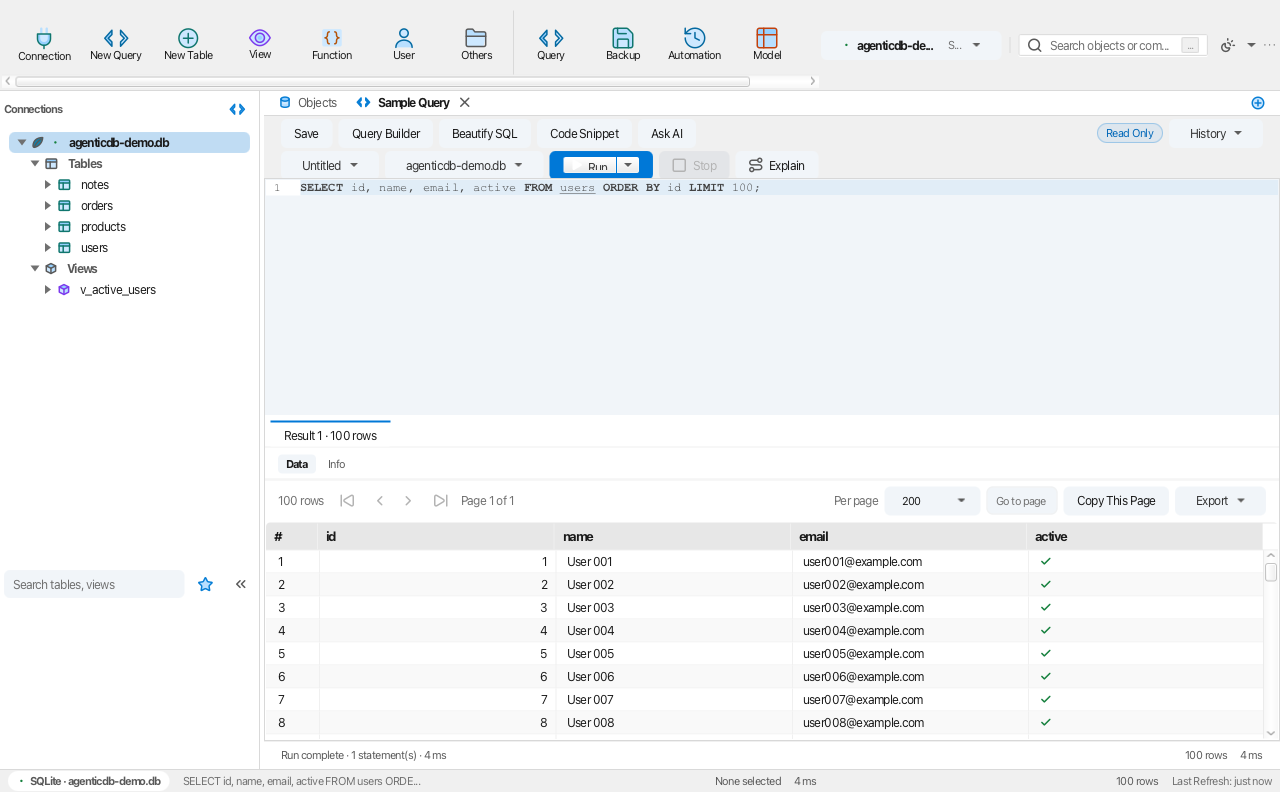
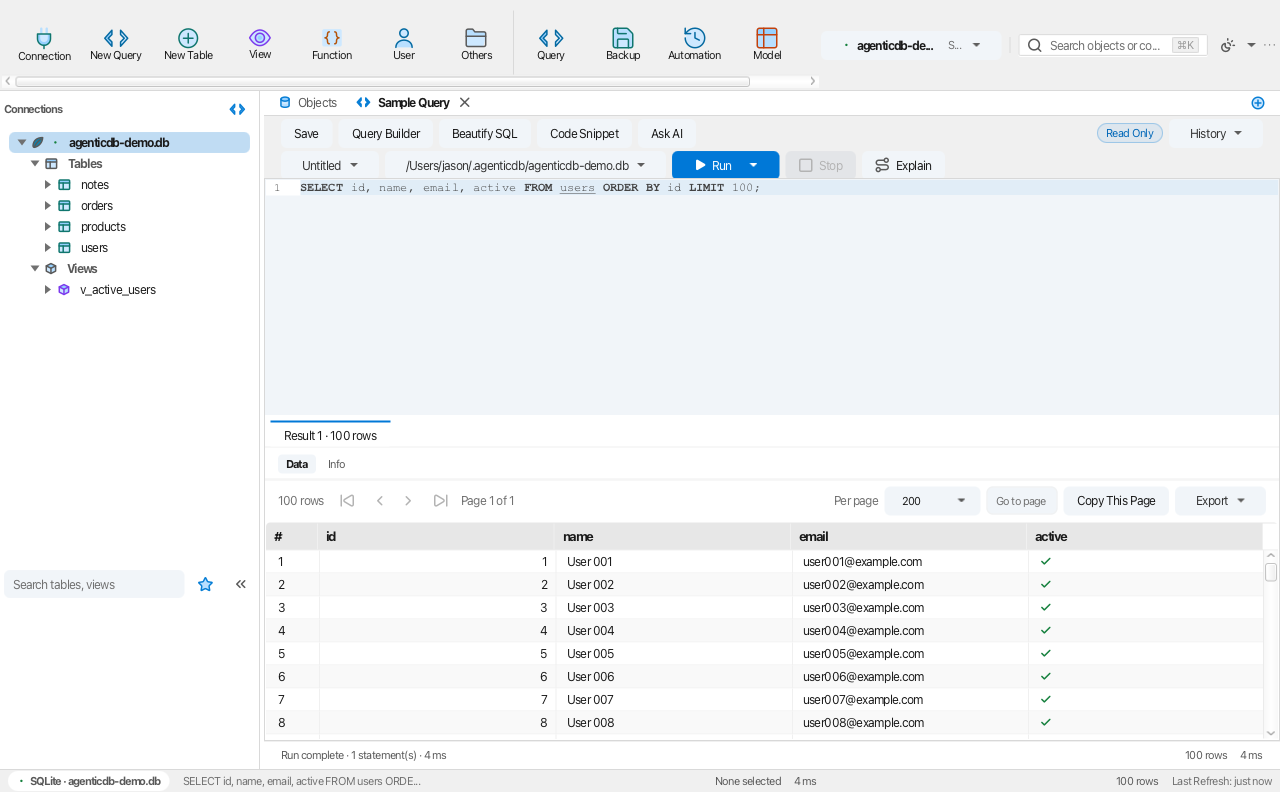
docs: R44 文档与验收帧 —— 基线回量 1296/148、逐像素对照的判据又用上一次
STATUS §1 回量 **1296 条 / 148 类 / 0 失败 / 34 环境跳过**（`BUILD SUCCESS` 14:31）。
账：上一版 1262 + 新门禁 15 + 真库解封 19。
⚠ 中途写过 1295/14 —— 那是 D-17 门禁落地**之前**量的，本轮重量后纠正，
并把「数字必须是量出来的、且要在最后一版门禁之后量」这条再钉一次。

帧：`p3-query`（Run 整颗蓝底白字、`⌘K` 胶囊完整）与 `p0-shell` 重拍。
`p0-shell` 与 HEAD 逐像素对照：差异 316 像素、包围盒 42×16 落在搜索框那一格
（胶囊从「…」变「⌘K」，提示文字按新的收缩权提前省略），别处一格未动 ——
R43-c 立的那条「变化必须只落在本轮改动的那块盒子里」这次真的用它抓到东西：
没有第二条规则能证明这不是回归。

§2 查询页一行改写为「库选择器真的列库并换绑 + P-1 不自动重跑」，
§2 结构编辑一行记下真库首跑抓出的两条缺陷。

Changed region(s): [[0.3125, 0.1818, 0.6562, 0.2424], [0.6875, 0.1818, 0.7188, 0.2121]]

diff --git a/docs/STATUS.md b/docs/STATUS.md
@@ -10,17 +10,18 @@
 | 项 | 值 |
 |---|---|
 | 命令 | `./scripts/build.sh`（= `./mvnw -B clean verify` + `java tools/TestCount.java`） |
-| 最近一次全量回量 | 2026-11-01 · macOS 15.7 x64 · JDK 25.0.4（IntelliJ JBR） |
-| 结果 | **1262 条 / 147 类 / 0 失败**（另有 53 条环境门控跳过）—— R43-c 视觉收尾后回量（`./scripts/build.sh` 全绿；较上一版 **+2 条 / 类数不变**：两条新门禁 —— `ToolbarDiscoverabilityTest` 量「下拉键的箭头不许压住图标」的**几何**，`NewTableDialogTest` 钉「留白不许落在网格与属性面板之间」的**结构**。53 条跳过分布不变，视图 DDL **仍未在真 MySQL / PostgreSQL 上联调**，见 §2 视图生命周期行与 D-5 |
+| 最近一次全量回量 | 2026-11-02 · macOS 15.7 x64 · JDK 25.0.4（IntelliJ JBR）· 本机 Docker 可用 |
+| 结果 | **1296 条 / 148 类 / 0 失败**（另有 34 条环境门控跳过）—— R44-G1 后回量（`./scripts/build.sh` 全绿；较上一版 **+34 条 / +1 类 / 跳过 −19**，账对得平：新门禁 15 条 = `QueryCatalogSelectorTest` 6（查询页库选择器，新增一类）+ `AppBarTest` D-12 几何 1 + `QueryPageTest` D-17 主色穿透 1 + `DialectTest` 动作码与注释钩子 7，另有 19 条真库类因本机 Docker 到位自动开跑。⚠ 上一版写 1295/14 是在 D-17 门禁落地**之前**量的，重量后按 1296/15 纠正。真库首跑当场抓出两条产品缺陷（表注释钩子被未闭合块注释吃掉、PG 外键动作码映射错），已修 —— 见 §2「结构编辑」与 D-5 |
 
 **口径警告（改数字前必读）**：4 个测试类用 `@Nested`，surefire 的 XML 会把外层类写成 `tests="0"`
 （真实用例在内层类条目里）。按 `tests=` 属性统计会少算一百多条 —— 所以计数一律走
 `tools/TestCount.java`（按 `<testcase>` 元素数），并且它同时断言总数下限。
 `I18nAuditTest` 的汉字棘轮同理：**别用 grep 数**，口径不同的两个数放在一起只会让人以为棘轮又涨了。
 
-另有 **53 条环境门控跳过**：需要 Docker / MySQL·PostgreSQL 真库环境变量，本机没配就跳过，
-不算失败（「0 失败」是硬门禁，「0 跳过」不是）。本轮实测的分布：
-`adb-jdbc` 30 · `adb-introspect` 18 · `adb-session` 5。
+另有 **34 条环境门控跳过**：需要 Docker / MySQL·PostgreSQL 真库环境变量，本机没配就跳过，
+不算失败（「0 失败」是硬门禁，「0 跳过」不是）。2026-11-02 实测的分布：
+`adb-jdbc` 15 · `adb-introspect` 14 · `adb-session` 5
+（上一版 53 条 —— 本机 Docker 到位后 19 条真库类开跑，剩下的多数要**外部库的环境变量**）。
 
 ## 2. 能力面
 
@@ -33,10 +34,10 @@
 | 数据网格 | ✅ | 服务端分页（100/200/500/1000）、行首 16px 状态槽、类型行、列宽/顺序/显隐持久化、冻结列、矩形选择、⌘F 本页搜索、转置只读视图；工具条 13 具名键 + 视图/溢出两小键（放不下折进 `»`；R43-c：视图那颗 `≡▾` 不再钉 30px 宽，箭头不再压住图标）；底栏五键 + 页码框 + 齿轮（页大小/跳至记录）+ 放大镜 + 视图切换；**内嵌 Filter & Sort 生成器**（平铺 AND、Builder/Text 双模式、显式 Apply、Sort By 芯片） |
 | Filter & Sort 面板 | ✅ | 网格内嵌（非弹窗），只改草稿不即输即查；`Criteria Edited` 标脏，`Apply Filter & Sort` 才生效。**边界**：底层 `DataQuery` 只有平铺 AND —— `and` 固定，`[Ω]`（OR 组）给如实说明页；Text 模式只读（自由 SQL 请去查询页）；`IN` 条件无法在行内表达，列头漏斗的按值筛选保留并原样带入 |
 | 数据页写路径 | ✅ | 行内编辑 + 类型转换 + 按主键定位；NULL / 空串独立操作；批量操作走行多选 + 右键菜单 + 底部行操作条（TSV / INSERT / 克隆 / 置 NULL / 置空串 / 删除）；SQL 预览 → 单事务 → 失败回滚 → 保存后一次反向撤销 |
-| 结构编辑 | ✅ | 加列 / 改列 / 重命名 / 删列 + 两级危险确认；索引、外键、触发器、CHECK 可增删；表注释可读可改（SQLite 无 → 按钮禁用）；改列整表重建时搬运 CHECK |
+| 结构编辑 | ✅ | 加列 / 改列 / 重命名 / 删列 + 两级危险确认；索引、外键、触发器、CHECK 可增删；表注释可读可改（SQLite 无 → 按钮禁用；⭐ 2026-11-02 真库契约补了「写进去再原样读回来」，同时修掉一条**表注释在 MySQL/MariaDB/PG 上从未生效**的缺陷 —— 一行没闭合的块注释把方言的读取钩子整段吃掉，接口默认返回 null 悄悄生效）；改列整表重建时搬运 CHECK |
 | 建表 / 表级生命周期 | ✅ | 建表（弹窗 + 实时 SQL 预览）/ 清空 / 重命名 / 删除，三种方言各走自己的语法。字段网格八列 + `Virtual` 生成列 / `Key` 单下拉 / `Key Length` 前缀索引 / `Binary` / 属性面板自增；R43-c：字段页三段（工具条 / 网格 / 属性面板）在内容区整体垂直居中，列少时留白回到上下两端，不再在网格与面板之间留一条死空白；方言不支持的属性直接拦下并说明原因，不编假 DDL。`Ask AI` 一击开**一份**如实说明页（本版本没有 AI 服务；R43-b 前是三项下拉，三项开的是同一段文字）。⚠ 建表弹窗里还不能录外键 / 索引 / CHECK；建表后不自动打开该表 |
 | 视图生命周期 | ✅ | 新建 / 设计 / 删除视图走**弹窗设计器**（视图名 + `SELECT` 查询体 + 实时 SQL 预览，与建表同一条「预览即执行」：预览几句就跑几句）。重建写法由方言自报：MariaDB / PostgreSQL / Oracle 一句 `CREATE OR REPLACE VIEW`，SQL Server `CREATE OR ALTER VIEW`，**MySQL / SQLite 没有单句形式** → 两句「先删再建」，此时预览显出两句并**追加第二次确认**。查询体只收 `SELECT` / `WITH` / 括号开头的组合查询：粘整条 DDL、塞第二句 SQL 都当场拦下并写明原因。「设计视图」先在后台读回库里定义，**读不到就不开窗**（不用空 body 盖掉真定义）。⚠ 边界：本版本**没有视图重命名**（名字格置灰并说明替代路径）、没有视图依赖图；视图数据页仍只读。⚠ **未在真 MySQL / PostgreSQL 联调**（D-5 需要 Docker），SQL 由三方言快照 + SQLite 契约钉住 |
-| 查询页 | ✅ | 工具带双行 62px（保存 / 查询构造器 / 美化 / 代码片段 / 问 AI · 查询名▾ / 库▾ / Run▾ / Stop / Explain）；RichTextFX 编辑器（语法配色、行号、当前行、查找替换）；`⌘R` 当前语句、`⇧⌘R` 全部、`⌘.` 取消；结果区 `Message/Summary/Result N` 三段 + `Data/Info` 切面、服务端分页、执行计划、错误定位、查询历史（50 条，带对象上下文）、代码片段。执行计划按方言能力开放：SQL Server / Oracle 需要两步协议，按钮禁用并说明原因 |
+| 查询页 | ✅ | 工具带双行 62px（保存 / 查询构造器 / 美化 / 代码片段 / 问 AI · 查询名▾ / **库▾** / Run▾ / Stop / Explain）；⭐ R44-G1：行 2 那颗是**真库选择器** —— 列出当前连接能切的库（方言自报 `listCatalogs`，后台读、读不到就退回只展示），当前库打勾，选中即把这条 SQL 复制进**新页签并绑到该库**（走左树同一条 catalog 虚拟连接路径，会话没开先连再开）；**不自动重跑**（重跑有写风险），状态栏明写「已切到数据库 X · 查询已复制到新页（未执行）」。SQLite 等无库层方言保持只展示、不假装可切。RichTextFX 编辑器（语法配色、行号、当前行、查找替换）；`⌘R` 当前语句、`⇧⌘R` 全部、`⌘.` 取消；结果区 `Message/Summary/Result N` 三段 + `Data/Info` 切面、服务端分页、执行计划、错误定位、查询历史（50 条，带对象上下文）、代码片段。执行计划按方言能力开放：SQL Server / Oracle 需要两步协议，按钮禁用并说明原因 |
 | 已保存查询 | ✅ | 工作区对象页（名称 / 类型 / 修改时间 / SQL 四列 + `设计` / `新建` / `删除查询`）；侧栏 `Queries` 组双击或 Enter 打开；删除走危险确认（默认按钮是取消）；查询页保存后列表即时刷新 |
 | 导入导出 | ✅ | 流式 CSV / TSV / JSON Lines / SQL / xlsx（POI SXSSF 写 + SAX 读）；字段映射、按目标列类型转换（含中文日期格式）、坏行报告带列名与原文；查询结果三档导出（本页 / 选中 / 全部） |
 | 错误与超时 | ✅ | 错误归类（断连 / 权限 / 不存在 / 超时 / 锁 / 约束 / 语法）；语句超时 30s 并给建议；崩溃日志 `~/.agenticdb/logs/crash-*.log` |
